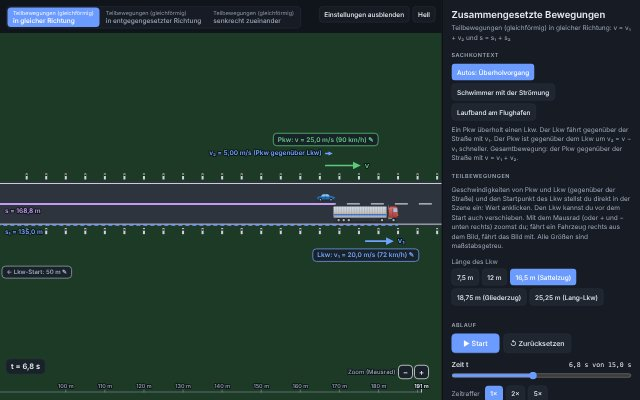
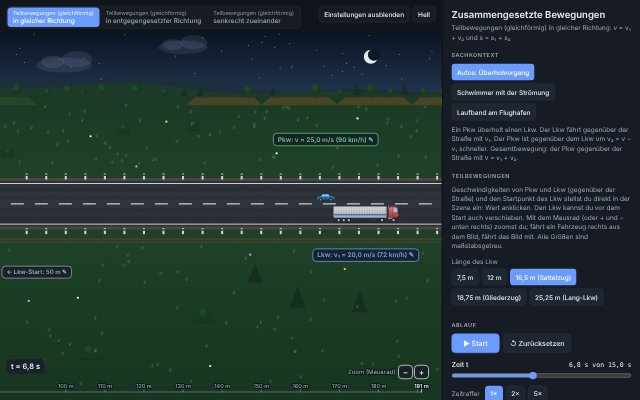
Zusammengesetzte Bewegungen: Landschaft und Straße, Anzeigen anfangs aus (#14)
- Schalter für Pfeile, Weg-Spur und Teilwege beim Start aus
- Straßenszenen mit Himmel, Sonne/Mond, Wolken, Hügeln, Feldern, Baumreihe,
  Büschen, Zaun, Grasbüscheln und Blumen (Parallaxe beim Mitscrollen)
- Straße mit Asphaltkörnung, Reifenspuren und Bankett

Claude-Session: https://claude.ai/code/session_016VMU7o5CWE2HxTsaP7X4fN

Changed region(s): [[0.0, 0.06, 0.6875, 0.27], [0.0, 0.51, 0.6875, 0.63], [0.0, 0.36, 0.6875, 0.45]]

diff --git a/zusammengesetzte-bewegungen/index.html b/zusammengesetzte-bewegungen/index.html
@@ -493,6 +493,144 @@ function drawPerson(ctx, x, y, phase, dir = 1, size = 1){
    ============================================================ */
 function sceneRect(w, h){ const top = window.matchMedia("(max-width:820px)").matches ? 10 : 66; return { x:0, y:top, w, h:h - top }; }
 
+/* --- Landschaft und Straße (Dekoration, scrollt mit der Straße; ferne Ebenen langsamer) --- */
+function drawLandscape(ctx, w, h, R, top, bot, off){
+  const dk = C.dark, hz = R.y + Math.max(30, (top - 20 - R.y) * 0.45);
+  // Himmel
+  const sky = ctx.createLinearGradient(0, R.y, 0, hz);
+  sky.addColorStop(0, dk ? "#0b1424" : "#8ccbf3"); sky.addColorStop(1, dk ? "#22344f" : "#e4f3fd");
+  ctx.fillStyle = sky; ctx.fillRect(0, R.y, w, hz - R.y + 2);
+  if (hz - R.y > 60){
+    const sx = w * 0.84, sy = R.y + (hz - R.y) * 0.38;
+    if (dk){
+      ctx.fillStyle = "rgba(255,255,255,.7)";
+      for (let i = 0; i < 40; i++){ const x = hash(i * 3.1) * w, y = R.y + hash(i * 7.7) * (hz - R.y) * 0.8; ctx.fillRect(x, y, 1.5, 1.5); }
+      ctx.fillStyle = "#e6ecf5"; ctx.beginPath(); ctx.arc(sx, sy, 14, 0, 7); ctx.fill();
+      ctx.fillStyle = "#0e1829"; ctx.beginPath(); ctx.arc(sx + 6, sy - 4, 12, 0, 7); ctx.fill();
+    } else {
+      const g = ctx.createRadialGradient(sx, sy, 4, sx, sy, 60);
+      g.addColorStop(0, "rgba(255,244,190,.95)"); g.addColorStop(0.3, "rgba(255,236,150,.55)"); g.addColorStop(1, "rgba(255,236,150,0)");
+      ctx.fillStyle = g; ctx.beginPath(); ctx.arc(sx, sy, 60, 0, 7); ctx.fill();
+      ctx.fillStyle = "#fff6c8"; ctx.beginPath(); ctx.arc(sx, sy, 16, 0, 7); ctx.fill();
+    }
+    // Wolken (ganz langsam)
+    ctx.fillStyle = dk ? "rgba(170,185,210,.12)" : "rgba(255,255,255,.92)";
+    const co = off * 0.05, cw = 380;
+    for (let i = Math.floor(co / cw) - 1; i < (co + w) / cw + 1; i++){
+      if (hash(i * 1.7) < 0.35) continue;
+      const cx = i * cw - co + hash(i) * 200, cy = R.y + 18 + hash(i * 2.3) * (hz - R.y) * 0.45, sz = 0.7 + hash(i * 5.1) * 0.7;
+      for (const [dx, dy, rx, ry] of [[0, 0, 44, 12], [20, -9, 24, 13], [-18, -5, 18, 10]]){ ctx.beginPath(); ctx.ellipse(cx + dx * sz, cy + dy * sz, rx * sz, ry * sz, 0, 0, 7); ctx.fill(); }
+    }
+  }
+  // Hügel: fern und nah (Parallaxe)
+  const hill = (o, base, a1, a2, col) => {
+    ctx.fillStyle = col; ctx.beginPath(); ctx.moveTo(0, hz + 30);
+    for (let x = 0; x <= w + 10; x += 10){ const u = x + o; ctx.lineTo(x, base - a1 * (1 + Math.sin(u / 170)) - a2 * (1 + Math.sin(u / 61 + 1.3))); }
+    ctx.lineTo(w, hz + 30); ctx.closePath(); ctx.fill();
+  };
+  hill(off * 0.08, hz, 14, 6, dk ? "#1c2f3a" : "#a9cdb8");
+  hill(off * 0.18, hz + 2, 9, 5, dk ? "#1d3a2b" : "#93c287");
+  // Wiese oben bis zur Straße
+  const mg = ctx.createLinearGradient(0, hz, 0, top);
+  mg.addColorStop(0, dk ? "#1b3a26" : "#8fc56c"); mg.addColorStop(1, dk ? "#1e4228" : "#a3d27b");
+  ctx.fillStyle = mg; ctx.fillRect(0, hz, w, top - hz);
+  // Felder in der Ferne
+  const fo = off * 0.32, fwid = 150;
+  for (let i = Math.floor(fo / fwid) - 1; i < (fo + w) / fwid + 1; i++){
+    const r = hash(i * 9.3); if (r < 0.45) continue;
+    const x = i * fwid - fo, y = hz + 4, fh = Math.min(16, (top - hz) * 0.22);
+    ctx.fillStyle = r > 0.75 ? (dk ? "#4a4424" : "#e8d27a") : (dk ? "#26462c" : "#b5da8a");
+    ctx.beginPath(); ctx.moveTo(x, y + fh); ctx.lineTo(x + 18, y); ctx.lineTo(x + fwid * 0.9, y); ctx.lineTo(x + fwid * 0.9 + 18, y + fh); ctx.closePath(); ctx.fill();
+  }
+  // Baumreihe am Horizont
+  const to = off * 0.45, tc = 34;
+  for (let i = Math.floor(to / tc) - 1; i < (to + w) / tc + 1; i++){
+    const r = hash(i * 4.7); if (r < 0.3) continue;
+    const x = i * tc - to + hash(i * 1.3) * 16, sz = 0.65 + hash(i * 8.1) * 0.6, y = hz + 6;
+    tree(ctx, x, y, 26 * sz, r > 0.78, dk);
+  }
+  // Büsche in der mittleren Entfernung (oben)
+  const mo = off * 0.7, mc = 170;
+  for (let i = Math.floor(mo / mc) - 1; i < (mo + w) / mc + 1; i++){
+    const r = hash(i * 3.9 + 1); if (r < 0.45) continue;
+    const x = i * mc - mo + hash(i * 4.4) * 90, y = hz + 30 + hash(i * 6.6) * Math.max(0, top - hz - 70);
+    if (r > 0.82) tree(ctx, x, y, 34, hash(i * 2.2) > 0.6, dk); else bush(ctx, x, y, 8 + 6 * hash(i * 5.2), dk);
+  }
+  // Wiese unten
+  const lg = ctx.createLinearGradient(0, bot, 0, h);
+  lg.addColorStop(0, dk ? "#1e4228" : "#9fd077"); lg.addColorStop(1, dk ? "#173520" : "#86bf62");
+  ctx.fillStyle = lg; ctx.fillRect(0, bot, w, h - bot);
+  // Büsche und Bäume nah unten (scrollen mit der Straße)
+  const bc = 130;
+  for (let i = Math.floor(off / bc) - 1; i < (off + w) / bc + 1; i++){
+    const r = hash(i * 6.1); if (r < 0.3) continue;
+    const x = i * bc - off + hash(i * 2.9) * 120, y = bot + 120 + hash(i * 3.3) * Math.max(0, h - bot - 190);
+    if (y > h - 40) continue;
+    if (r > 0.72) tree(ctx, x, y, 40 + 16 * hash(i * 1.1), hash(i * 7.1) > 0.5, dk); else bush(ctx, x, y, 12 + 10 * hash(i * 5.5), dk);
+  }
+  // Weidezaun unterhalb der Straße
+  const fy = bot + 34, fc = 34;
+  ctx.strokeStyle = dk ? "#5a4632" : "#a07a50"; ctx.lineWidth = 2;
+  ctx.beginPath(); ctx.moveTo(0, fy - 8); ctx.lineTo(w, fy - 8); ctx.moveTo(0, fy - 2); ctx.lineTo(w, fy - 2); ctx.stroke();
+  ctx.fillStyle = dk ? "#4a3a2a" : "#8a6440";
+  for (let i = Math.floor(off / fc) - 1; i < (off + w) / fc + 1; i++) ctx.fillRect(i * fc - off - 1.5, fy - 13, 3, 15);
+  // Grasbüschel und Blumen
+  const gc = 26;
+  const band = (y1, y2, seed) => {
+    if (y2 - y1 < 6) return;
+    for (let i = Math.floor(off / gc) - 1; i < (off + w) / gc + 1; i++){
+      for (let j = 0; j < 3; j++){
+        const q = hash(i * 13.7 + j * 3.1 + seed); if (q < 0.25) continue;
+        const x = i * gc - off + hash(i * 3.7 + j + seed) * gc, y = y1 + hash(i * 1.9 + j * 5.3 + seed) * (y2 - y1);
+        if (q > 0.93){ ctx.fillStyle = ["#ffffff", "#ffd84a", "#f28bb5", "#c9a2f0"][Math.floor(hash(i + j * 9 + seed) * 4)]; ctx.beginPath(); ctx.arc(x, y, 2.2, 0, 7); ctx.fill(); }
+        else { ctx.strokeStyle = dk ? "rgba(120,180,110,.35)" : "rgba(60,120,40,.45)"; ctx.lineWidth = 1.2; ctx.beginPath(); ctx.moveTo(x - 3, y - 4); ctx.lineTo(x, y + 1); ctx.lineTo(x + 3, y - 5); ctx.moveTo(x, y + 1); ctx.lineTo(x + 0.5, y - 6); ctx.stroke(); }
+      }
+    }
+  };
+  band(hz + 22, top - 22, 0.5); band(bot + 40, h - 30, 7.5);
+}
+function tree(ctx, x, y, s, fir, dk){
+  ctx.fillStyle = dk ? "#3a2c20" : "#7a5634"; ctx.fillRect(x - s * 0.05, y - s * 0.35, s * 0.1, s * 0.35);
+  if (fir){
+    ctx.fillStyle = dk ? "#15301e" : "#3f8a4a";
+    ctx.beginPath(); ctx.moveTo(x, y - s * 1.15); ctx.lineTo(x + s * 0.32, y - s * 0.25); ctx.lineTo(x - s * 0.32, y - s * 0.25); ctx.closePath(); ctx.fill();
+  } else {
+    ctx.fillStyle = dk ? "#1a3a22" : "#4f9a46"; ctx.beginPath(); ctx.arc(x, y - s * 0.62, s * 0.34, 0, 7); ctx.fill();
+    ctx.fillStyle = dk ? "#21472a" : "#68b257"; ctx.beginPath(); ctx.arc(x - s * 0.1, y - s * 0.7, s * 0.2, 0, 7); ctx.fill();
+  }
+}
+function bush(ctx, x, y, r, dk){
+  ctx.fillStyle = "rgba(0,0,0,.12)"; ctx.beginPath(); ctx.ellipse(x, y + 2, r * 1.3, r * 0.3, 0, 0, 7); ctx.fill();
+  ctx.fillStyle = dk ? "#183a22" : "#4c9440";
+  for (const [dx, dy, rr] of [[-0.6, -0.4, 0.7], [0.5, -0.45, 0.75], [0, -0.85, 0.8]]){ ctx.beginPath(); ctx.arc(x + r * dx, y + r * dy, r * rr, 0, 7); ctx.fill(); }
+  ctx.fillStyle = dk ? "#21482b" : "#62ab52"; ctx.beginPath(); ctx.arc(x - r * 0.15, y - r * 1.0, r * 0.4, 0, 7); ctx.fill();
+}
+function drawRoad(ctx, w, top, rh, off){
+  const dk = C.dark;
+  // Bankett (Schotterstreifen)
+  ctx.fillStyle = dk ? "#4a463e" : "#b9ad93"; ctx.fillRect(0, top - 7, w, 7); ctx.fillRect(0, top + rh, w, 7);
+  const ag = ctx.createLinearGradient(0, top, 0, top + rh);
+  ag.addColorStop(0, dk ? "#2c3138" : "#666c75"); ag.addColorStop(0.5, dk ? "#30353d" : "#6e747d"); ag.addColorStop(1, dk ? "#2a2e35" : "#62686f");
+  ctx.fillStyle = ag; ctx.fillRect(0, top, w, rh);
+  // Fahrspuren etwas dunkler (Reifenspuren)
+  ctx.fillStyle = "rgba(0,0,0,.07)";
+  for (const f of [0.18, 0.36, 0.64, 0.82]) ctx.fillRect(0, top + rh * f - 4, w, 8);
+  // Körnung des Asphalts
+  const c = 9;
+  for (let i = Math.floor(off / c) - 1; i < (off + w) / c + 1; i++){
+    for (let j = 0; j < rh / c; j++){
+      const q = hash(i * 17.3 + j * 3.7); if (q < 0.55) continue;
+      ctx.fillStyle = q > 0.8 ? (dk ? "rgba(255,255,255,.06)" : "rgba(255,255,255,.10)") : "rgba(0,0,0,.10)";
+      ctx.fillRect(i * c - off + hash(i + j * 7) * c, top + j * c + hash(i * 2 + j) * c, 1.6, 1.6);
+    }
+  }
+  // Schotterkörner
+  ctx.fillStyle = dk ? "rgba(0,0,0,.25)" : "rgba(90,80,60,.35)";
+  for (let i = Math.floor(off / 7) - 1; i < (off + w) / 7 + 1; i++){
+    for (const y of [top - 5, top + rh + 2]) if (hash(i * 5.7 + y) > 0.5) ctx.fillRect(i * 7 - off + hash(i) * 6, y + hash(i * 3 + y) * 3, 1.5, 1.5);
+  }
+}
+
 /* --- Autos (gleiche Richtung): Pkw startet bei 0 m, Lkw-Start, Geschwindigkeiten und Strecke in der Szene einstellbar --- */
 function drawStrasseFrei(ctx, w, h){
   const m = kin(), R = sceneRect(w, h);
@@ -510,8 +648,8 @@ function drawStrasseFrei(ctx, w, h){
   const top = Math.round(R.y + 100 + (R.h - 100 - 150 - rh) * 0.5), bot = top + rh;
   const yA = top + 4 + lane * 0.86, yT = top + 4 + lane + lane * 0.9;
 
-  ctx.fillStyle = C.grass; ctx.fillRect(0, R.y, w, h - R.y);
-  ctx.fillStyle = C.road; ctx.fillRect(0, top, w, rh);
+  drawLandscape(ctx, w, h, R, top, bot, v0 * sc);
+  drawRoad(ctx, w, top, rh, v0 * sc);
   line(ctx, 0, top + 4, w, top + 4, C.mark, 2); line(ctx, 0, bot - 4, w, bot - 4, C.mark, 2);
   ctx.save(); ctx.strokeStyle = C.mark; ctx.lineWidth = 2.5; ctx.setLineDash([26, 22]);
   ctx.lineDashOffset = ((v0 * sc - padL) % 48 + 48) % 48;
@@ -600,8 +738,8 @@ function draw1d(ctx, w, h){
 
   if (k.szene === "strasse"){
     const rh = Math.min(150, R.h * 0.46), top = cy - rh / 2 + 18;
-    ctx.fillStyle = C.grass; ctx.fillRect(0, R.y, w, h - R.y);
-    ctx.fillStyle = C.road; ctx.fillRect(0, top, w, rh);
+    drawLandscape(ctx, w, h, R, top, top + rh, 0);
+    drawRoad(ctx, w, top, rh, 0);
     line(ctx, 0, top + 4, w, top + 4, C.mark, 2); line(ctx, 0, top + rh - 4, w, top + rh - 4, C.mark, 2);
     line(ctx, 0, top + rh / 2, w, top + rh / 2, C.mark, 2.5, [26, 22]);
     // Leitpfosten (ruhen gegenüber der Straße)
@@ -834,7 +972,7 @@ function timeBadge(ctx, w, h, R){
 /* ============================================================
    Oberfläche
    ============================================================ */
-S.show = { arrows:true, trail:true, help:true, ghost:false };
+S.show = { arrows:false, trail:false, help:false, ghost:false };
 
 function buildBereiche(){
   const box = $("bereiche"); box.innerHTML = "";
